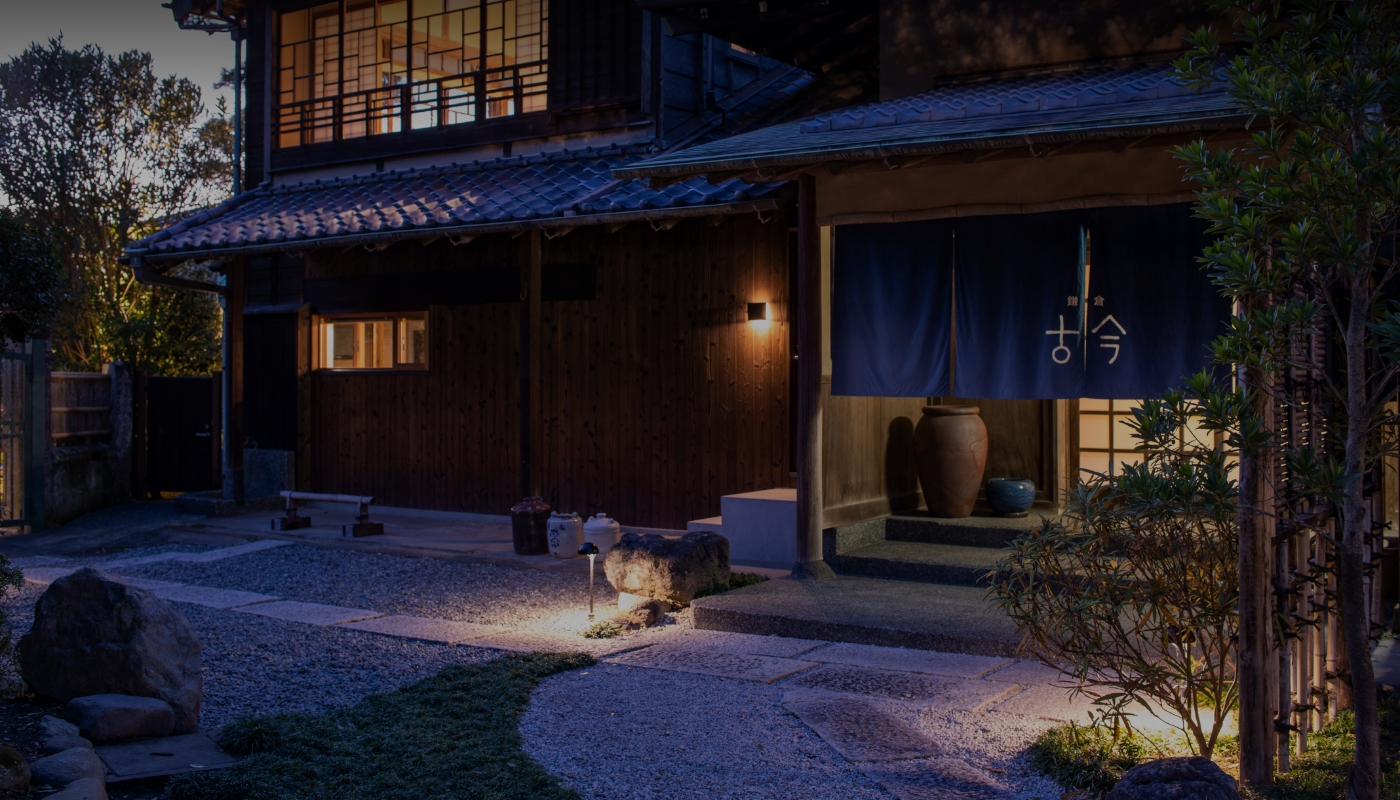
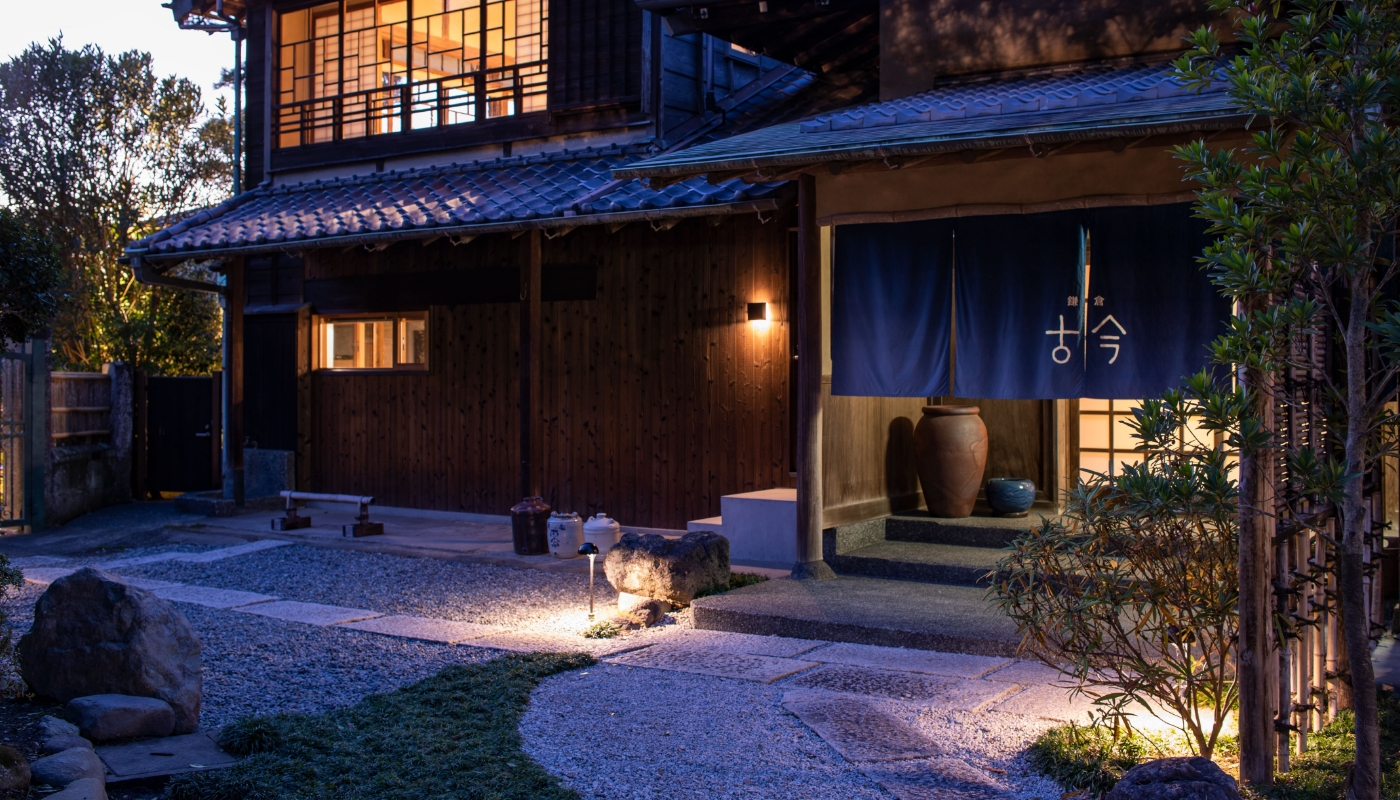
added dark layers on top of slider

diff --git a/assets/css/top.css b/assets/css/top.css
@@ -55,7 +55,7 @@
   overflow: hidden;
 }
 .section_hero .swiper-slide {
-  background-color: #020202;
+  background: linear-gradient(rgba(29, 38, 113, 0.8), rgba(195, 55, 100, 0.8));
   color: #ffffff;
   font-size: 4rem;
   display: flex;
@@ -66,6 +66,23 @@
   width: 100%;
   min-height: 800px;
   object-fit: cover;
+}
+.section_hero .swiper-slide:first-child::before{
+  content: "";
+  position: absolute;
+  width: 100%;
+  height: 100%;
+  background: #000000;
+  opacity: 0.3;
+}
+.section_hero .swiper-slide:first-child::after{
+  content: "";
+  position: absolute;
+  width: 100%;
+  height: 40%;
+  background: linear-gradient(rgba(0, 0, 0, 0.8), rgba(195, 55, 100, 0.0));
+  bottom: auto;
+  top: 0px;
 }
 
 /* section_about */
